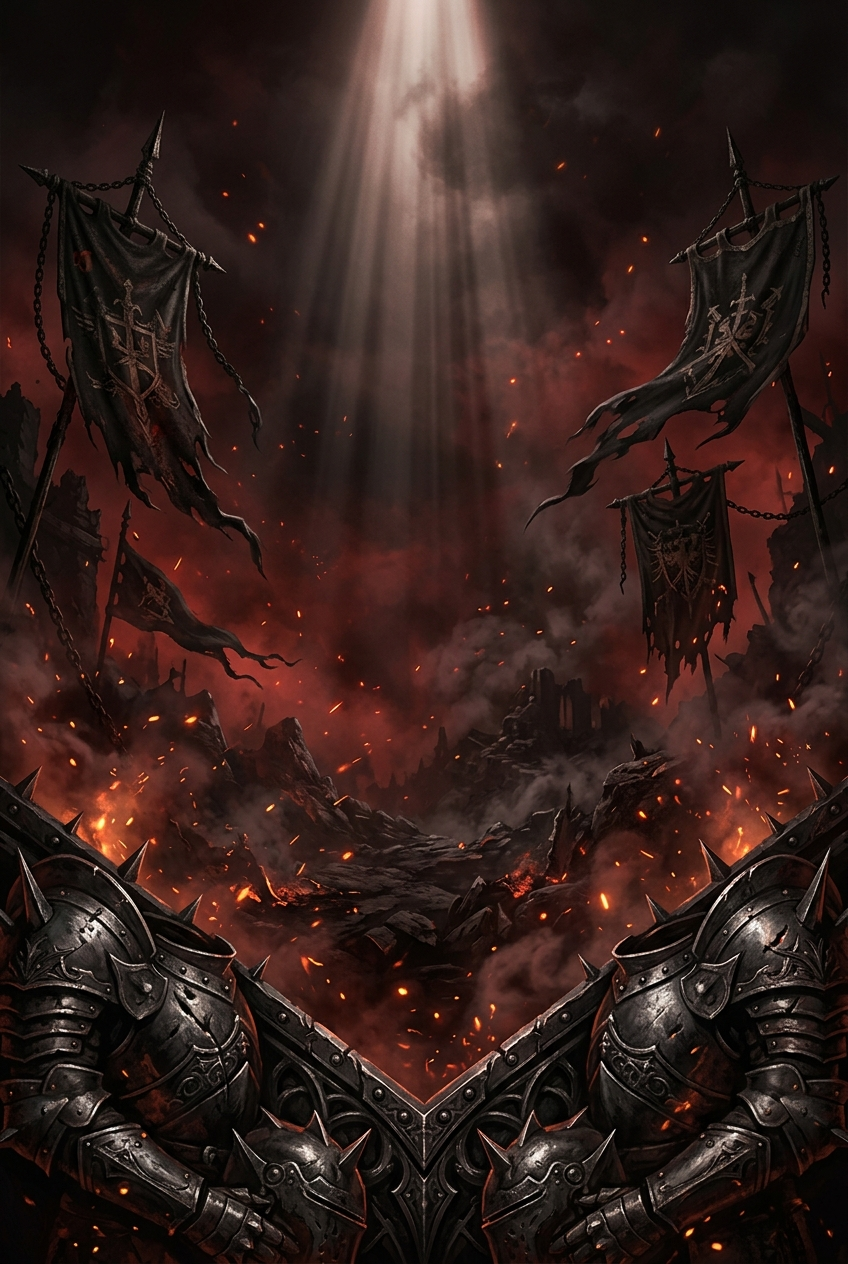
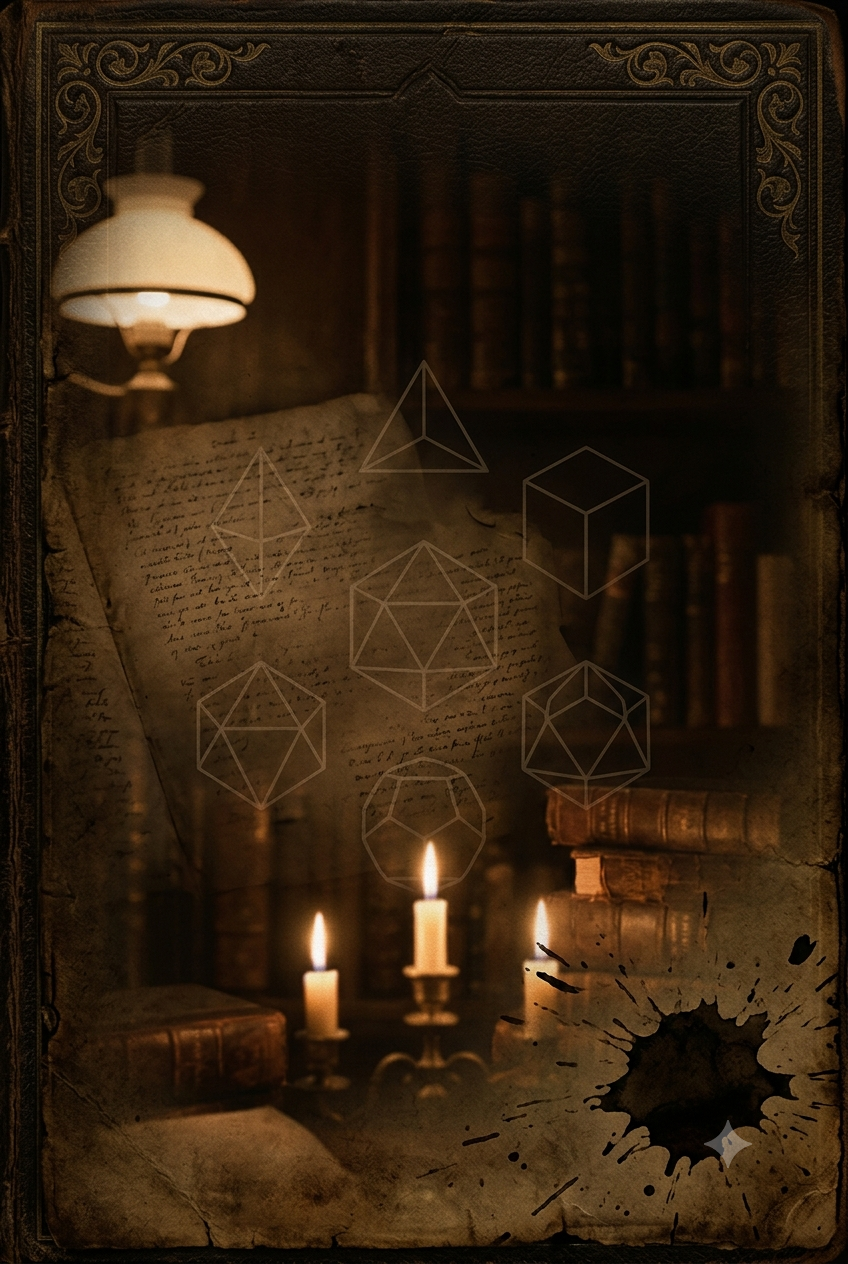
completing graphic chart for thinker

diff --git a/src/components/LegendGenerator.tsx b/src/components/LegendGenerator.tsx
@@ -6,6 +6,7 @@ import explorateurBackground from '../assets/fond_explorateur.png';
 import savantBackground from '../assets/fond_savant.png';
 import artisteBackground from '../assets/fond_artiste.png';
 import fictionnelBackground from '../assets/fond_fictionnel.png';
+import penseurBackground from '../assets/fond_penseur.png';
 import { 
   Sparkles, 
   Upload, 
@@ -266,7 +267,7 @@ export const CLASSES_CONFIG: Record<ArchetypeType, ClassDesign> = {
     description: "Idées, philosophie, transformation sociale ou spirituelle",
     subTypes: ["Philosophe", "Idéologue", "Réformateur social", "Leader non-violent", "Théologien", "Visionnaire", "Théoricien"],
     colors: "Bronze · Ivoire · Gris ancien",
-    fontTitle: "font-oswald text-amber-600",
+    fontTitle: "font-oswald text-[#ffff82]",
     fontData: "font-sourcesans",
     fontCitation: "font-playfair",
     background: "Bibliothèque · Temple · Manuscrits",
@@ -379,7 +380,7 @@ const getClassIcon = (classeName: string, iconClassName: string = "w-4 h-4") => 
     case 'Savant': return <FlaskConical className={`${iconClassName} text-[#ffff33]`} />;
     case 'Artiste': return <Palette className={`${iconClassName} text-[#820263]`} />;
     case 'Fictionnel': return <Film className={`${iconClassName} text-[#7776bc]`} />;
-    case 'Penseur': return <BookOpen className={`${iconClassName} text-amber-600`} />;
+    case 'Penseur': return <BookOpen className={`${iconClassName} text-[#ffff82]`} />;
     case 'Dirigeant': return <Crown className={`${iconClassName} text-yellow-500`} />;
     case 'Athlète': return <Trophy className={`${iconClassName} text-emerald-400`} />;
     case 'Guerrier':
@@ -627,28 +628,28 @@ export const getCardAmbiance = (classeStr: string, activeTheme: any): CardAmbian
       
     case 'Penseur':
       return {
-        fontTitle: "font-oswald font-extrabold tracking-wide uppercase text-amber-600",
-        fontData: "font-sourcesans font-semibold",
+        fontTitle: "font-oswald font-extrabold tracking-wide uppercase text-[#ffff82]",
+        fontData: "font-montserrat font-semibold",
         fontCitation: "font-playfair italic",
-        accentColor: "text-amber-600",
-        accentBorder: "border-amber-700/60",
-        innerBorder: "border-amber-800/35",
-        outerBorder: "border-stone-700/80 shadow-[0_0_15px_rgba(120,113,108,0.4)]",
-        themeBgGradient: "from-stone-900/95 via-amber-950/40 to-stone-950/95",
+        accentColor: "text-[#FFFF82]",
+        accentBorder: "border-[#FFFF82]/80",
+        innerBorder: "border-[#FFFF82]/30",
+        outerBorder: "border-[#d97706]/80 shadow-[0_0_24px_rgba(217, 119, 6.45)]",
+        themeBgGradient: "from-[#d97706]/95 via-[#d97706]/90 to-[#171413]/95",
         
-        nameSectionStyle: "border-2 border-stone-700 bg-stone-950/95 shadow-[0_4px_8px_rgba(0,0,0,0.85)] rounded-[4px]", 
-        textBoxStyle: "border-2 border-stone-700 bg-stone-950/95 shadow-[inset_0_1.5px_3px_rgba(0,0,0,0.9)] rounded-[4px]",
-        portraitBorderStyle: "border-2 border-stone-700/80 shadow-[0_0_10px_rgba(217,119,6,0.15)]",
-        classBadgeStyle: "border-2 border-stone-700/80 bg-gradient-to-r from-[#171413] via-[#2a2420] to-[#171413]",
-        specBoxStyle: "border-2 border-stone-600/50",
-        citationBoxStyle: "border border-amber-700/20 bg-black/45",
-        iconContainerStyle: "border-amber-700/60",
-        dividerStyle: "via-amber-600/20",
-        failleColor: "text-[#ff0000]",
+        nameSectionStyle: "border-2 border-[#FFFF82]/80 bg-[#171413]/90 backdrop-blur-[12px] shadow-[0_4px_12px_rgba(0,0,0,0.85)] rounded-xl",
+        textBoxStyle: "border-2 border-[#A16207]/80 rounded-xl shadow-[inset_0_2px_4px_rgba(0,0,0,0.85),0_4px_6px_rgba(0,0,0,0.5)]",
+        portraitBorderStyle: "border-2 border-[#d97706]/60 shadow-[0_0_12px_rgba(217, 119, 6.45)]",
+        classBadgeStyle: "border-2 border-[#d97706]/80 bg-gradient-to-r from-[#171413] via-[#2a2420] to-[#171413]",
+        specBoxStyle: "border-2 border-[#525174]/60",
+        citationBoxStyle: "border border-[#A16207]/50 bg-[#171413]/55",
+        iconContainerStyle: "border-[#FFFF82]/80 shadow-[0_0_8px_rgba(255, 255, 130,0.4)]",
+        dividerStyle: "via-[#A16207]/30",
+        failleColor: "text-[#FFFF82]",
         
-        textBoxBgImage: `linear-gradient(to bottom, rgba(217, 119, 6, 0.2), rgba(28, 25, 23, 0.95)), url(${cardBackground})`,
-        textBoxBgBlendMode: 'multiply',
-        quoteIconStyle: "text-amber-600",
+        textBoxBgImage: `linear-gradient(to bottom, rgba(255, 255, 130, 0.2), rgba(23, 20, 19, 0.82)), url(${penseurBackground})`,
+        textBoxBgBlendMode: 'normal',
+        quoteIconStyle: "text-[#A16207] drop-shadow-[0_0_6px_rgba(255, 255, 130,0.6)]",
         
         cornerStyle: 'rivet',
         showScratches: false,
@@ -1032,6 +1033,7 @@ const backgroundMap = {
   Savant: savantBackground,
   Artiste: artisteBackground,
   Fictionnel: fictionnelBackground,
+  Penseur: penseurBackground,
 };
 
 const background = backgroundMap[mainClass] ?? cardBackground;

diff --git a/src/lib/legendGeneratorLib.tsx b/src/lib/legendGeneratorLib.tsx
@@ -280,7 +280,7 @@ export const CLASS_THEMES: Record<string, SimpleClassTheme> = {
   Savant:      { primary: '#00ffff', secondary: '#ffff33', accent: '#ffcc33', background: '#023047', danger: '#fb8500' },
   Artiste:     { primary: '#820263', secondary: '#fb8b24', accent: '#d90368', background: '#0a0008', danger: '#ff0000' },
   Fictionnel:  { primary: '#7776bc', secondary: '#fffbdb', accent: '#cdc7e5', background: '#0d0a1a', danger: '#ff0000' },
-  Penseur:     { primary: '#d97706', secondary: '#a16207', accent: '#d97706', background: '#1c1917', danger: '#ff0000' },
+  Penseur:     { primary: '#d97706', secondary: '#FFFF82', accent: '#A16207', background: '#1c1917', danger: '#ff0000' },
   Dirigeant:   { primary: '#eab308', secondary: '#ca8a04', accent: '#eab308', background: '#0a0a0a', danger: '#ff0000' },
   Athlète:     { primary: '#10b981', secondary: '#059669', accent: '#10b981', background: '#0a0f0d', danger: '#ff0000' },
 };